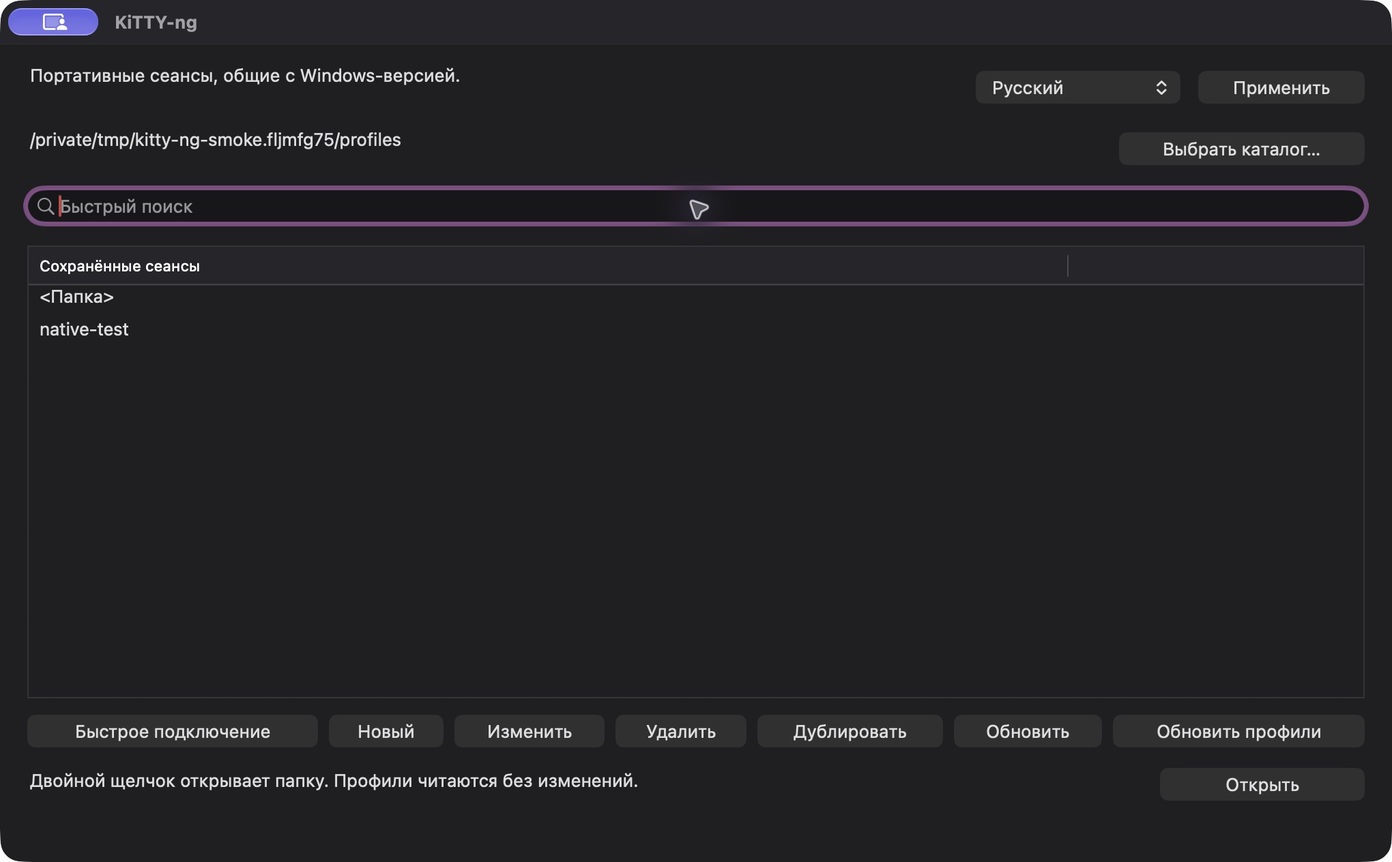
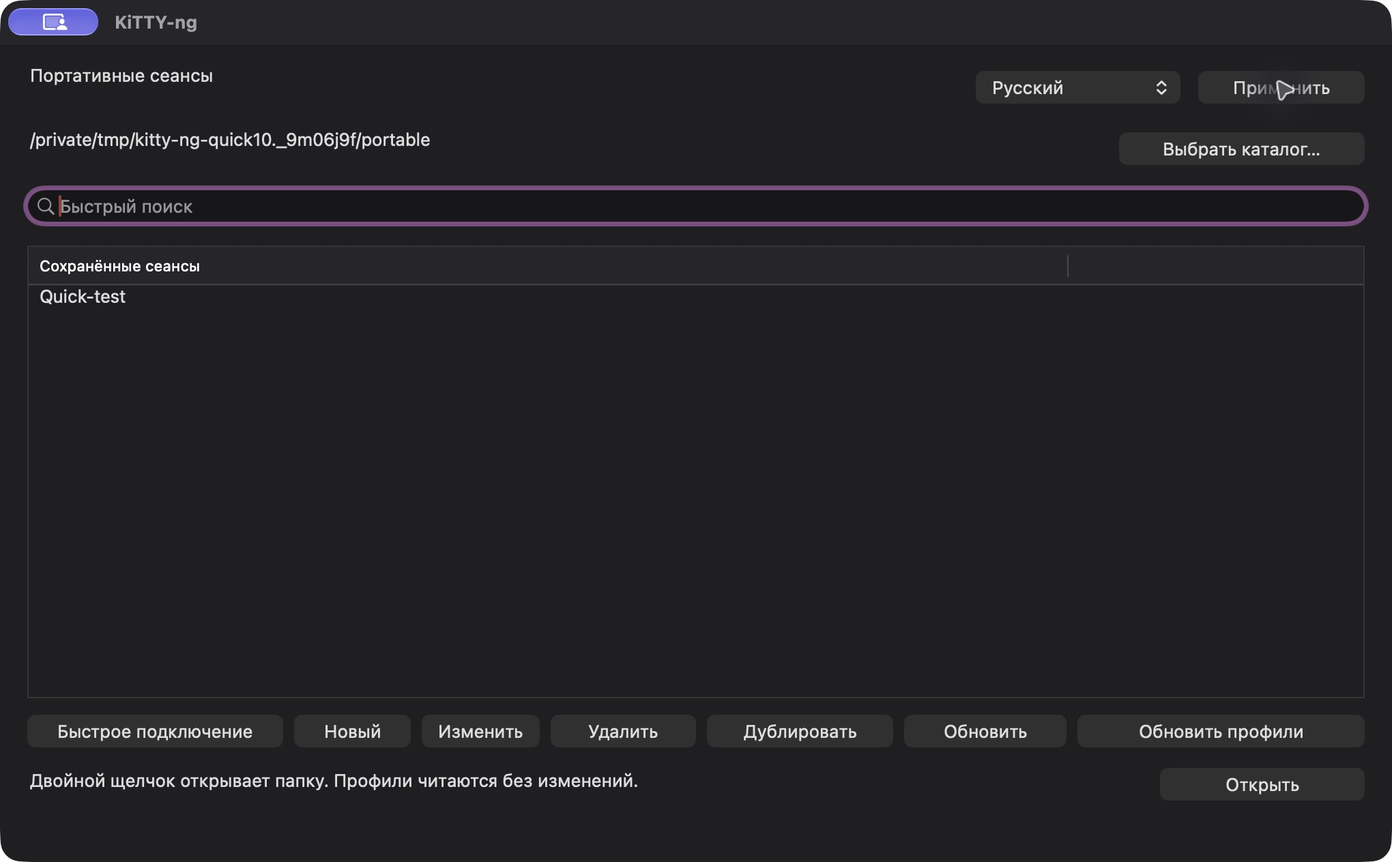
Document verified macOS 0.85-10 quick commands and preserved test evidence

diff --git a/docs/macos-native-validation.md b/docs/macos-native-validation.md
@@ -1,3 +1,19 @@
+# Нативная проверка macOS 0.85-10 — 28 октября 2026
+
[1 lines of base64/hex data omitted]
+
+Новая логика быстрых команд проверена нативным редактором на обоих срезах: 20 записей, инструкция 60000 байт, Unicode/кириллица/`&`, отдельный Enter, немедленные сохранение/удаление, UTF-16LE/BOM, сохранение остальных секций INI и отсутствие повторного примера после очистки. Реальный AppKit GUI подключался только к изолированному SSH-приёмнику, который записывает входные байты и не запускает shell. Проверены буквальная отправка с Enter и без него, защита ввода, активная вкладка, независимое дублирование с одной авторизацией из памяти и работа копии после закрытия источника. Три запуска на архитектуру подтвердили сохранение команд; файлы профилей остались побайтно прежними, секреты не записаны.
+
+После завершения ARM64/SSH/SCP/SFTP/прокси/сертификатных проверок пользователь изменил только подпись главного окна. По постоянному правилу успешные незатронутые проверки не повторялись. `tools/macos-caption-reuse.py` допускает перенос покрытия только при доказанном изменении одной GUI-подписи и одного контекстного перевода, неизменности зависимостей, тестов, инструментов и среды. Исходные отчёты, реальные коммиты и хеши исполненных бинарников сохранены в `validation-history/0.85-10-caption-baseline-7b26587`; вложенная история сборщика сохраняет более ранние проверки идентичных источников. Это перенос покрытия, а не заявление о совпадении новых бинарников или новом запуске.
+
+На итоговом `858317c` заново проверены изменённая подпись «Портативные сеансы» / “Portable sessions” и ранее незавершённый GUI x86_64 через Rosetta. ARM64 GUI и сетевые проверки используются через явные `reused-coverage-attestation` с исходными хешами и `caption-reuse-proof.json`. Полная auth-матрица 0.85-9 остаётся историческим доказательством; её не выдаём за новый запуск 0.85-10. Нативная проверка auth cache и реальное дублирование с паролем покрыты текущей цепочкой отчётов.
+
+Отчёты в `dist/macos-native`: `macos-build.json`, `macos-dmg.json`, `gui-acceptance.json`, `quick-{arm64,x86_64}.json`, `quick-no-enter-x86_64.json`, `quick-gui-0.85-10.json`, `caption-reuse-proof.json`, `runtime-{arm64,x86_64}.json`, `proxies-{arm64,x86_64}.json`, `certificates.json`, `keys-{arm64,x86_64}.json`, `macos-0.85-10-delivery.json`. `verify-gui-0.85-10.py` проверяет записанные наблюдения и их происхождение, не перезапуская GUI. Старые доказательства сохраняются. Последующий документационный коммит не подменяет коммит сборки.
+
+Сняты реальные RU/EN скриншоты редактора быстрых команд, версии/даты сборки, главного окна и вкладок. Проверка на физическом Intel, macOS 13, аппаратном serial, действующем Kerberos и Apple notarization не заявляется. Windows/Linux-пакеты и их отчёты защищены исходными контрольными суммами отдельно.
+
+---
+
 # Нативная проверка macOS 0.85-9 — 28 октября 2026
 
 Mac-пакет собран из чистого коммита `4a6fd9a705f0fd6cf9f9f9c420e2b84ad3fa8996`; версия не повышалась повторно. Официальный последний stable LLVM 23.1.4 проверен штатным сборщиком; CMake 4.4.4, Ninja 1.13.2, системный SDK 27.0. Отчёт `dist/macos-native/macos-build.json` сохраняет точное происхождение инструментов и бинарников. Windows/Linux-пакеты 0.85-9 сохранены побайтно; коммиты платформ учитываются независимо.

diff --git a/docs/releases/0.85-10.md b/docs/releases/0.85-10.md
@@ -2,7 +2,7 @@
 
 ## Новое
 
-- **Быстрые команды для Windows и Linux.** До 20 именованных команд, общих для всех сеансов. Редактор находится в **Окно → Быстрые команды**: добавление, сохранение, удаление и отдельный флажок отправки Enter. Запуск — из подменю **Быстрые команды** сразу после **Специальной команды**.
+- **Быстрые команды для Windows, macOS и Linux.** До 20 именованных команд, общих для всех сеансов. Редактор находится в **Окно → Быстрые команды**: добавление, сохранение, удаление и отдельный флажок отправки Enter. Запуск — из подменю **Быстрые команды** сразу после **Специальной команды**.
 - Команды хранятся в реестре установленной Windows-версии либо в `kitty.ini` портативной версии, отдельно от профилей. При первом запуске создаётся пример обновления Ubuntu; после удаления всех записей он не возвращается. Названия и команды сохраняются буквально.
 - В **О программе** рядом с версией отображается дата сборки.
 
@@ -15,7 +15,11 @@
 
 Windows x64/x86/ARM64 и Linux x86_64 (AppImage и AppDir). Сборки выполняются локально на Windows последним официальным stable-компилятором LLVM-MinGW 20261020 / Clang 23.1.4. Linux-пакет проверен нативно на Ubuntu.
 
-**macOS Universal 2 готовится отдельно** и будет добавлена в этот выпуск после нативной проверки. Сохраняются портативный режим macOS и совместимость с Windows-профилями: общий каталог `Sessions`, настройки и ключи вне `.app`.
+**macOS Universal 2 проверена нативно на Apple Silicon и через Rosetta.** [Скачать DMG](https://github.com/nr084/KiTTY-ng/releases/download/v0.85-10/kitty-ng-0.85-10-macos-universal.dmg). Портативный режим macOS сохраняет совместимость с Windows-профилями: общий каталог `Sessions`, настройки и ключи вне `.app`.
+
+На Mac меню **Быстрые команды** находится сверху сразу справа от **Сеанс** и работает с активной вкладкой; в контекстном меню терминала оно следует за **Специальной командой**. Редактор открывается через **Окно → Быстрые команды**. Проверены буквальная передача Unicode, Enter=yes/no, блокировка ввода, независимость дубликатов, сохранение после перезапуска, 20 записей, UTF-16LE/BOM и сохранность других секций INI. В «О программе» показаны версия и дата сборки.
+
+Mac собран из чистого `858317cecaf787fb3f7758c4f5f22c09d3500f44`, LLVM 23.1.4. После изменения только подписи главного окна успешные незатронутые проверки сохранены с исходными коммитами и хешами; подпись RU/EN, оставшийся GUI Rosetta, подпись приложения и смонтированный DMG проверены на итоговом пакете. [Покрытие и ограничения](https://github.com/nr084/KiTTY-ng/blob/main/docs/macos-native-validation.md). Windows/Linux-вложения и исторический тег сохранены.
 
 Плагин Total Commander **kitty-ng-fs 1.1.1** выпускается независимо и не изменяется.
 

diff --git a/README.en.md b/README.en.md
@@ -1,6 +1,6 @@
 # KiTTY-ng
 
-**KiTTY-ng 0.85-10 for Windows and Linux**: global quick commands, corrected Windows settings layout and Cyrillic text, and build dates in About. [Release notes](docs/releases/0.85-10.md) · [Download](https://github.com/nr084/KiTTY-ng/releases/tag/v0.85-10). macOS Universal is being prepared separately.
+**KiTTY-ng 0.85-10 for Windows, macOS and Linux**: global quick commands, corrected Windows settings layout and Cyrillic text, and build dates in About. [Release notes](docs/releases/0.85-10.md) · [Download](https://github.com/nr084/KiTTY-ng/releases/tag/v0.85-10).
 
 **macOS Universal 2 · Portable**: runs on Apple Silicon and Intel. Keep profiles and keys outside the app bundle and share the same portable folder with Windows. Native session tabs are included.
 
@@ -16,7 +16,7 @@
 
 ## Download
 
-Windows/Linux 0.85-10 is published. macOS is pending native preparation; [Mac handoff](docs/releases/0.85-10-macos-handoff.md).
+Release 0.85-10 includes six verified packages for Windows, macOS and Linux.
 
 | Platform | Release 0.85-10 | Launch |
 | --- | --- | --- |
@@ -24,7 +24,7 @@ Windows/Linux 0.85-10 is published. macOS is pending native preparation; [Mac ha
 | Windows x64 | [ZIP](https://github.com/nr084/kitty-ng/releases/download/v0.85-10/kitty-ng-0.85-10-x64.zip) | `kitty-ng-x64.exe` |
 | Windows x86 | [ZIP](https://github.com/nr084/kitty-ng/releases/download/v0.85-10/kitty-ng-0.85-10-x86.zip) | `kitty-ng-x86.exe` |
 | Windows arm64 | [ZIP](https://github.com/nr084/kitty-ng/releases/download/v0.85-10/kitty-ng-0.85-10-arm64.zip) | `kitty-ng-arm64.exe` |
-| macOS 13+ · Intel / Apple Silicon | Universal DMG is being prepared and will be added to this release | `KiTTY-ng.app` |
+| macOS 13+ · Intel / Apple Silicon | [Universal DMG](https://github.com/nr084/KiTTY-ng/releases/download/v0.85-10/kitty-ng-0.85-10-macos-universal.dmg) | `KiTTY-ng.app` |
 
 [All releases and checksums](https://github.com/nr084/kitty-ng/releases). Each package includes the client and five utilities. Windows EXE names include their architecture; versions are embedded in the programs and included in archive names.
 
@@ -92,7 +92,7 @@ The Mac app uses an ad-hoc signature without Developer ID or notarization. If bl
 
 KiTTY saved passwords use a reversible format, not a secure secrets vault. Entire profiles encrypted with a master password are unsupported. Retired extensions are listed in the [decision matrix](docs/kitty-migration-decisions.json).
 
-The user confirmed operation on a MacBook Air M3 and Windows ARM64. Automated native Windows checks ran on x64/x86. The current local macOS build is compiled and tested on Mac: ARM64 and x86_64 through Rosetta, SSH, keys, transfers and AppKit. Physical Intel Macs, macOS 13, GSSAPI and real SSH CA handshakes still require dedicated validation. See the [native Mac report](docs/macos-native-validation.md) (Russian).
+The user confirmed operation on a MacBook Air M3 and Windows ARM64. Automated native Windows checks ran on x64/x86. The current local macOS build is compiled and tested on Mac: ARM64 and x86_64 through Rosetta, SSH, keys, transfers and AppKit. Physical Intel Macs, macOS 13 and live Kerberos credentials still require dedicated validation. Real OpenSSH host/user certificate handshakes have passed on both architectures. See the [native Mac report](docs/macos-native-validation.md) (Russian).
 
 ## Acknowledgements and licenses
 

diff --git a/docs/build.md b/docs/build.md
@@ -96,3 +96,9 @@ python tools/publish-release.py --windows-linux
 Затем Mac-чат адаптирует исходники, нативно собирает ту же версию, обновляет Mac-скриншоты и самостоятельно добавляет DMG в опубликованный выпуск. При наличии синхронизированных Windows/Linux-пакетов и отчётов он собирает полный манифест (`--assemble-only --macos-dir dist/macos-native`) и выполняет `tools/publish-release.py --update-current`. Пять уже опубликованных вложений должны иметь прежние SHA-256 и сохраняются без замены; тег не переносится. Перед этим Mac-чат обновляет заметки о фактической готовности macOS. Полный манифест содержит ровно шесть пакетов и отдельные коммиты платформ.
 
 Прежний `--pending-macos --draft-only` остаётся только способом подготовки черновика; для согласованной поэтапной публикации применяется явный `--windows-linux`.
+
+### Повторное использование незатронутых Mac-проверок
+
+Успешные проверки не повторяются из-за документации или несвязанной правки. Сборщик сохраняет исходное происхождение и проверяет применимость прежнего результата. Для узкого случая изменения только подписи портативного окна предусмотрен `tools/macos-caption-reuse.py`: `capture --evidence <новая-папка>` сохраняет исходные отчёты и бинарники до пересборки, `reuse --evidence <та-же-папка>` после штатной сборки проверяет допустимый diff и совпадение среды/инструментов. Любая иная правка проверяемого кода, переводов или тестов отклоняется. Нельзя использовать этот режим для неуспешных или незавершённых проверок.
+
+Перенос покрытия явно помечается `reused-coverage-attestation`; исходные отчёты, коммиты и реальные хеши выполненных бинарников остаются неизменными. Изменённая подпись проверяется новым запуском GUI. Подпись, Universal 2, упаковка и смонтированный DMG проверяются на новых байтах. Область применения и доказательства входят в отчёт приёмки.

diff --git a/docs/macos.md b/docs/macos.md
@@ -2,7 +2,7 @@
 
 [Документация](README.md) | [English](macos.en.md)
 
-**Universal: Apple Silicon и Intel в одном приложении.** Выпуск 0.85-9 поставляется в DMG, требует macOS 13 или новее. Пользователь подтвердил основную работу на MacBook Air M3. Приложение использует нативный интерфейс AppKit и ядро PuTTY 0.85.
+**Universal: Apple Silicon и Intel в одном приложении.** Выпуск 0.85-10 поставляется в DMG, требует macOS 13 или новее. Пользователь подтвердил основную работу на MacBook Air M3. Приложение использует нативный интерфейс AppKit и ядро PuTTY 0.85.
 
 ## Возможности 0.85-8 и 0.85-9
 
@@ -10,9 +10,17 @@
 
 Портативный формат общий с Windows; данные остаются вне `.app`. В 0.85-9 нативно проверено общее языковое ядро RU/EN; Mac DMG добавляется к опубликованным Windows/Linux-пакетам с собственным коммитом происхождения.
 
+## Быстрые команды в 0.85-10
+
+До 20 общих команд: редактор **Окно → Быстрые команды**, запуск — отдельное верхнее меню справа от **Сеанс** или контекстное меню терминала. Список хранится в `kitty.ini` снаружи `.app`, отдельно от профилей. [Руководство](quick-commands.md). В «О программе» рядом с версией показана дата сборки.
+
+![Редактор быстрых команд](screenshots/macos-quick-commands-ru.png)
+
+![Версия и дата сборки](screenshots/macos-about-ru.png)
+
 ## Первый запуск
 
-1. Откройте `kitty-ng-0.85-9-macos-universal.dmg`.
+1. Откройте `kitty-ng-0.85-10-macos-universal.dmg`.
 2. Перенесите `KiTTY-ng.app` в доступную для записи папку. Для общих профилей — рядом с Windows EXE, `kitty.ini` и `Sessions`.
 3. Извлеките DMG и запустите приложение из выбранной папки.
 4. Если сеансы не найдены, нажмите **Выбрать каталог…** и укажите общий портативный корень.

diff --git a/docs/quick-commands.md b/docs/quick-commands.md
@@ -10,7 +10,7 @@
 
 ## Хранение
 
-В установленной Windows-версии: `HKCU\Software\KiTTY-NG\QuickCommands`. В портативном режиме Windows и в Linux: секция `[QuickCommands]` файла `kitty.ini` в выбранном корне портативных данных.
+В установленной Windows-версии: `HKCU\Software\KiTTY-NG\QuickCommands`. В портативном режиме Windows, в Linux и macOS: секция `[QuickCommands]` файла `kitty.ini` в выбранном корне портативных данных.
 
 ```ini
 [QuickCommands]
@@ -24,4 +24,10 @@ cmd1_enter=yes
 
 При первом запуске без раздела быстрых команд создаётся пример с названием «Обновить Ubuntu» или «Update Ubuntu» в зависимости от языка. Это не запускает обновление: команда выполняется только после выбора пользователем. Смена языка не переименовывает пользовательские записи. После удаления всех команд пустой раздел остаётся, поэтому пример не создаётся повторно.
 
-Нативная адаптация macOS выполняется отдельно для того же выпуска.
+## macOS
+
+В 0.85-10 нативный редактор открывается через **Окно → Быстрые команды**. Для запуска используйте отдельное меню **Быстрые команды** справа от **Сеанс** в верхней строке Mac либо одноимённое подменю терминала после **Специальной команды**. Получатель — текущая активная вкладка.
+
+`kitty.ini` находится в выбранном портативном корне, вне `.app`; при размещении рядом с приложением это каталог, содержащий `KiTTY-ng.app`. Формат общий с Windows и Linux.
+
+![Быстрые команды на Mac](screenshots/macos-quick-commands-ru.png)

diff --git a/docs/macos.en.md b/docs/macos.en.md
@@ -2,7 +2,7 @@
 
 [Documentation](README.en.md) | [Русский](macos.md)
 
-**Universal: Apple Silicon and Intel in one app.** The 0.85-9 release is supplied as a DMG and targets macOS 13 or later. The user confirmed basic operation on a MacBook Air M3. The app uses native AppKit UI and the PuTTY 0.85 core.
+**Universal: Apple Silicon and Intel in one app.** The 0.85-10 release is supplied as a DMG and targets macOS 13 or later. The user confirmed basic operation on a MacBook Air M3. The app uses native AppKit UI and the PuTTY 0.85 core.
 
 ## Features in 0.85-8 and 0.85-9
 
@@ -10,9 +10,17 @@ Every tab context menu now offers Duplicate session, including inactive tabs. An
 
 Portable Windows profiles remain shared, with data outside `.app`. The shared RU/EN engine is checked natively for 0.85-9. The Mac DMG joins the published Windows/Linux packages with its own recorded source commit.
 
+## Quick commands in 0.85-10
+
+Up to 20 shared commands: configure with **Window → Quick commands**, run from the separate top menu immediately right of **Session** or the terminal context menu. The list is stored in `kitty.ini` outside `.app`, separately from profiles. [Guide](quick-commands.en.md). About shows the version and build date.
+
+![Quick-command editor](screenshots/macos-quick-commands-en.png)
+
+![Version and build date](screenshots/macos-about-en.png)
+
 ## First launch
 
-1. Open `kitty-ng-0.85-9-macos-universal.dmg`.
+1. Open `kitty-ng-0.85-10-macos-universal.dmg`.
 2. Copy `KiTTY-ng.app` into a writable folder, beside Windows EXEs, `kitty.ini` and `Sessions` if sharing profiles.
 3. Eject the DMG and launch the copied app.
 4. If no sessions appear, click **Choose folder…** and select the portable root.

diff --git a/docs/build.en.md b/docs/build.en.md
@@ -84,3 +84,9 @@ python3 tools/release-build.py --assemble-only
 Windows/Linux builds are prepared separately; macOS builds run on a Mac. Release assembly verifies version and commit provenance, matching native macOS/Linux acceptance, and checksums. Publication to the existing GitHub repository requires a separate explicit release request.
 
 An explicit request to update only the Mac asset of an existing release uses `python3 tools/update-macos-release.py --publish` after committing/pushing sources, building on Mac and completing acceptance. It preserves the existing tag and Windows/Linux assets, renames the previous DMG as an archived asset, uploads the new primary DMG and updates Russian release notes. Without `--publish`, it only saves a GitHub state snapshot. New full releases continue to use a new revision.
+
+### Reusing unaffected Mac checks
+
+Keep successful checks when their code, dependencies, tests, toolchain and environment are unchanged. For the narrowly verified portable-browser caption change, `tools/macos-caption-reuse.py capture --evidence <new-directory>` preserves original reports and binaries before rebuilding. After the normal build, `reuse --evidence <same-directory>` validates the bounded source diff and environment. Other related changes or unfinished/failed checks cannot reuse this evidence.
+
+Reused coverage is explicitly labelled `reused-coverage-attestation`. Original reports, tested commits and executed binary hashes are retained. The changed caption requires fresh GUI acceptance; signatures, Universal 2, packaging and mounted DMG are verified on the new bytes. This is coverage reuse, not a claim of binary identity or new execution.

diff --git a/docs/quick-commands.en.md b/docs/quick-commands.en.md
@@ -10,7 +10,7 @@ Run a command from **Quick commands**, immediately after **Special Command** in 
 
 ## Storage
 
-Installed Windows: `HKCU\Software\KiTTY-NG\QuickCommands`. Portable Windows and Linux: the `[QuickCommands]` section of `kitty.ini` in the selected portable root.
+Installed Windows: `HKCU\Software\KiTTY-NG\QuickCommands`. Portable Windows, Linux and macOS: the `[QuickCommands]` section of `kitty.ini` in the selected portable root.
 
 ```ini
 [QuickCommands]
@@ -24,4 +24,10 @@ Slots are numbered 1–20. Use `yes` or `no` for Enter. Names and commands retai
 
 On the first run without this section, KiTTY-ng creates the Ubuntu example in the selected interface language. Creating the example does not execute it. Switching languages does not rename user commands, and deleting all commands does not recreate the example.
 
-Native macOS adaptation is prepared separately for the same release.
+## macOS
+
+In 0.85-10, open the native editor with **Window → Quick commands**. Run commands from the separate **Quick commands** menu immediately to the right of **Session** in the Mac menu bar, or the terminal submenu after **Special Commands**. The active tab receives the command.
+
+`kitty.ini` lives in the selected portable root outside `.app`. When placed beside the app, this is the directory containing `KiTTY-ng.app`. The format is shared with Windows and Linux.
+
+![Mac quick-command editor](screenshots/macos-quick-commands-en.png)
